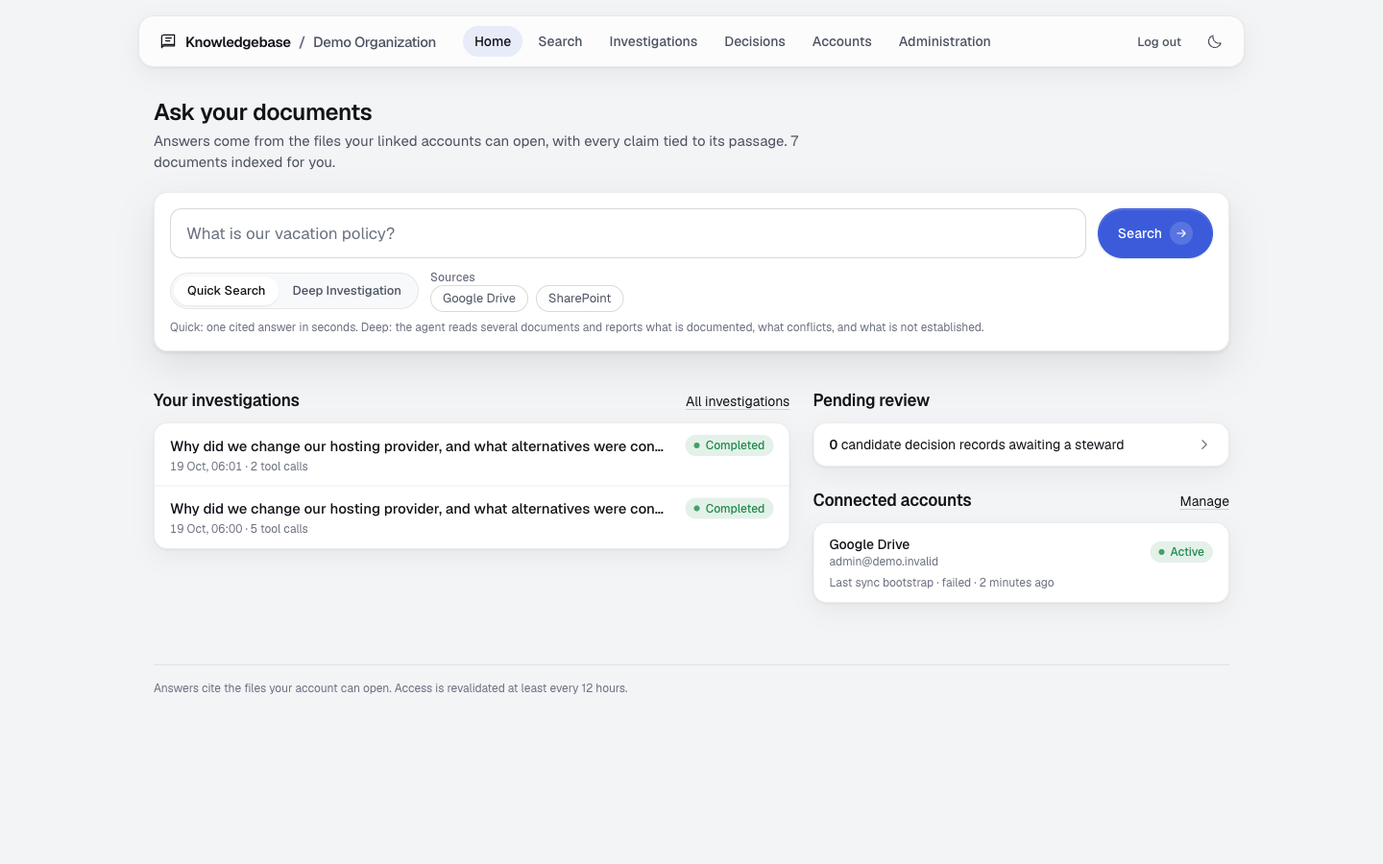
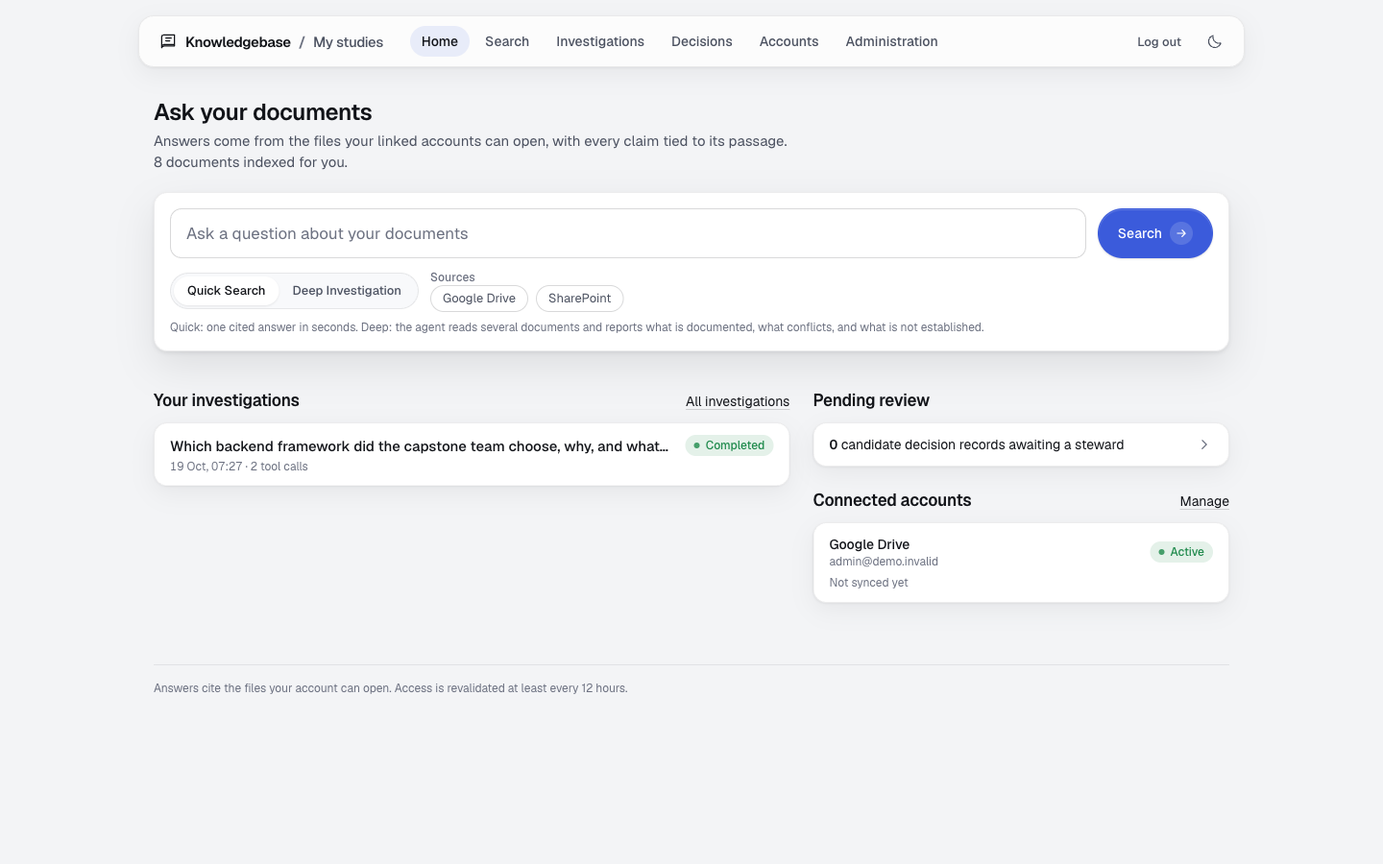
README as a study assistant with a synthetic study corpus; seed_demo --corpus academic; neutral ask placeholders

diff --git a/templates/investigations/list.html b/templates/investigations/list.html
@@ -8,7 +8,7 @@
 <form method="post" action="{% org_url 'web:investigation_start' %}" class="card raised mb-8 flex flex-col gap-3 p-3 sm:flex-row sm:items-center sm:p-4">
   {% csrf_token %}
   <label class="sr-only" for="q">Question</label>
-  <input id="q" class="field field-lg flex-1" type="text" name="q" maxlength="2000" required placeholder="Why did we change our cloud hosting provider?" autocomplete="off">
+  <input id="q" class="field field-lg flex-1" type="text" name="q" maxlength="2000" required placeholder="Why was this decision made, and what alternatives were considered?" autocomplete="off">
   <button class="btn btn-primary h-13 shrink-0 px-5" type="submit">Investigate
     <span class="flex h-6 w-6 items-center justify-center rounded-full bg-white/15"><svg width="14" height="14" viewBox="0 0 24 24" fill="none" stroke="currentColor" stroke-width="1.75" stroke-linecap="round" stroke-linejoin="round" aria-hidden="true"><path d="M5 12h14M13 6l6 6-6 6"/></svg></span>
   </button>

diff --git a/templates/web/search.html b/templates/web/search.html
@@ -6,7 +6,7 @@
 <form method="get" action="{% org_url 'web:search' %}" class="card raised mb-8 p-3 sm:p-4" role="search">
   <label class="sr-only" for="q">Question</label>
   <div class="flex flex-col gap-3 sm:flex-row sm:items-center">
-    <input id="q" class="field field-lg flex-1" type="text" name="q" value="{{ question }}" placeholder="What is our vacation policy?" required autocomplete="off">
+    <input id="q" class="field field-lg flex-1" type="text" name="q" value="{{ question }}" placeholder="Ask a question about your documents" required autocomplete="off">
     <button class="btn btn-primary h-13 shrink-0 px-5" type="submit">Search
       <span class="flex h-6 w-6 items-center justify-center rounded-full bg-white/15"><svg width="14" height="14" viewBox="0 0 24 24" fill="none" stroke="currentColor" stroke-width="1.75" stroke-linecap="round" stroke-linejoin="round" aria-hidden="true"><path d="M5 12h14M13 6l6 6-6 6"/></svg></span>
     </button>

diff --git a/templates/web/dashboard.html b/templates/web/dashboard.html
@@ -8,7 +8,7 @@
   <form method="get" action="{% org_url 'web:search' %}" role="search" class="card raised p-3 sm:p-4">
     <label class="sr-only" for="q">Question</label>
     <div class="flex flex-col gap-3 sm:flex-row sm:items-center">
-      <input id="q" class="field field-lg flex-1" type="text" name="q" placeholder="What is our vacation policy?" required autocomplete="off">
+      <input id="q" class="field field-lg flex-1" type="text" name="q" placeholder="Ask a question about your documents" required autocomplete="off">
       <button class="btn btn-primary h-13 shrink-0 px-5" type="submit">
         Search
         <span class="flex h-6 w-6 items-center justify-center rounded-full bg-white/15"><svg width="14" height="14" viewBox="0 0 24 24" fill="none" stroke="currentColor" stroke-width="1.75" stroke-linecap="round" stroke-linejoin="round" aria-hidden="true"><path d="M5 12h14M13 6l6 6-6 6"/></svg></span>

diff --git a/web/management/commands/seed_demo.py b/web/management/commands/seed_demo.py
@@ -1,6 +1,9 @@
 """`manage.py seed_demo`: a demo organization with an admin, a steward and a
-member, the synthetic corpus linked to the member and the steward through a
-mocked connector, and one candidate decision record. Synthetic data only."""
+member, a synthetic corpus linked to every demo user through a mocked connector,
+and one candidate decision record. Synthetic data only.
+
+`--corpus org` (default) seeds the organizational corpus into /o/demo/;
+`--corpus academic` seeds lecture notes, a slide deck and a report into /o/studies/."""
 
 from datetime import UTC, datetime
 
@@ -20,13 +23,14 @@ class Command(BaseCommand):
 
     def add_arguments(self, parser):
         parser.add_argument("--password", default="demo-passphrase-change-me")
+        parser.add_argument("--corpus", choices=("org", "academic"), default="org")
 
     def handle(self, *args, **options):
         from eval.corpus import documents
 
-        org, _ = Organization.objects.get_or_create(
-            slug="demo", defaults={"name": "Demo Organization"}
-        )
+        academic = options["corpus"] == "academic"
+        slug, name = ("studies", "My studies") if academic else ("demo", "Demo Organization")
+        org, _ = Organization.objects.get_or_create(slug=slug, defaults={"name": name})
         users = {}
         for role, email in (
             (Membership.ROLE_ADMIN, "admin@demo.invalid"),
@@ -44,8 +48,13 @@ class Command(BaseCommand):
                     organization=org, user=user, defaults={"role": role}
                 )
             users[role] = user
-        docs = documents()
-        for user in (users[Membership.ROLE_MEMBER], users[Membership.ROLE_STEWARD]):
+        if academic:
+            from eval.corpus_academic import documents as academic_documents
+
+            docs = academic_documents()
+        else:
+            docs = {sid: (body, "text/markdown", None) for sid, body in documents().items()}
+        for user in users.values():
             link = create_link(
                 org,
                 user,
@@ -61,13 +70,13 @@ class Command(BaseCommand):
             # first scheduled sync marks the link as failed and hides the demo corpus.
             with with_org(org.id, user.pk):
                 SyncScope.objects.filter(id=scope.id).update(enabled=False)
-            for seq, (sid, body) in enumerate(docs.items(), start=1):
+            for seq, (sid, (body, mime, title)) in enumerate(docs.items(), start=1):
                 sd = SourceDocument(
                     source_type="google_drive",
                     source_id=sid,
                     version_label="v1",
-                    title=sid.split(":", 1)[1].replace("-", " ").title(),
-                    mime_type="text/markdown",
+                    title=title or sid.split(":", 1)[1].replace("-", " ").title(),
+                    mime_type=mime,
                     source_url=f"https://docs.google.com/document/d/{sid.split(':', 1)[1]}",
                 )
                 apply_change(
@@ -80,29 +89,32 @@ class Command(BaseCommand):
                         observed_at=datetime.now(UTC),
                         document=sd,
                     ),
-                    lambda _sd, body=body: DownloadResult(
-                        content=body, version_label="v1", mime_type="text/markdown"
+                    lambda _sd, body=body, mime=mime: DownloadResult(
+                        content=body, version_label="v1", mime_type=mime
                     ),
                 )
         steward = Principal(
             user=users[Membership.ROLE_STEWARD], organization=org, role=Membership.ROLE_STEWARD
         )
+        if academic:
+            source_id = "gdrive:software-engineering-capstone-decision-2026-03"
+            title = "Capstone backend framework: Django (March 2026)"
+        else:
+            source_id = "gdrive:hosting-decision"
+            title = "Hosting provider selection (March 2025)"
         with with_org(org.id, steward.user_id):
-            chunk = (
-                Chunk.objects.filter(document__source_id="gdrive:hosting-decision")
-                .order_by("position")
-                .first()
+            chunks = Chunk.objects.filter(document__source_id=source_id).order_by("position")
+            # Prefer the passage under the "Decision" heading; fall back to the first chunk.
+            chunk = next(
+                (c for c in chunks if c.heading_path and c.heading_path[-1] == "Decision"), None
             )
-            exists = DecisionRecord.objects.filter(
-                organization=org, title="Hosting provider selection (March 2025)"
-            ).exists()
+            chunk = chunk or chunks.first()
+            exists = DecisionRecord.objects.filter(organization=org, title=title).exists()
         if chunk and not exists:
             create_candidate(
                 steward,
-                title="Hosting provider selection (March 2025)",
+                title=title,
                 origin=DecisionRecord.ORIGIN_USER,
                 evidence=[EvidenceInput(chunk_id=str(chunk.id), role="decision")],
             )
-        self.stdout.write(
-            "Demo ready: /o/demo/ — admin@demo.invalid, steward@demo.invalid, member@demo.invalid"
-        )
+        self.stdout.write(f"Demo ready: /o/{slug}/ (admin@, steward@ and member@demo.invalid)")

diff --git a/eval/corpus_academic/__init__.py b/eval/corpus_academic/__init__.py
@@ -1,0 +1,70 @@
+# ruff: noqa: E501  data file: long synthetic sentences
+"""Synthetic study corpus for the academic demo: lecture notes, a slide deck and a
+report, generated from text at seed time. No real course material."""
+
+from __future__ import annotations
+
+import io
+from pathlib import Path
+
+ROOT = Path(__file__).parent
+
+DOCX = "application/vnd.openxmlformats-officedocument.wordprocessingml.document"
+PPTX = "application/vnd.openxmlformats-officedocument.presentationml.presentation"
+
+
+def _deck() -> bytes:
+    from pptx import Presentation
+    from pptx.util import Inches
+
+    prs = Presentation()
+    slides = [
+        ("Operating Systems, Lecture 9: Scheduling", "Goals: throughput, turnaround, response time, fairness."),
+        ("First-come first-served", "Simple and fair in arrival order. Suffers the convoy effect: one long CPU burst delays every short job behind it."),
+        ("Shortest job first", "Optimal mean waiting time when burst lengths are known. Burst lengths are predicted with an exponential average; the course uses alpha = 0.5."),
+        ("Round robin", "Time quantum q. A quantum of 10 to 100 ms keeps response time low; a quantum below the context-switch cost wastes the CPU."),
+        ("Multilevel feedback queue", "New jobs start in the highest-priority queue; a job that uses its full quantum moves down. This is the scheduler the lab simulates in Assignment 4."),
+    ]
+    for title, body in slides:
+        slide = prs.slides.add_slide(prs.slide_layouts[1])
+        slide.shapes.title.text = title
+        slide.placeholders[1].text = body
+        slide.placeholders[1].width = Inches(8)
+    out = io.BytesIO()
+    prs.save(out)
+    return out.getvalue()
+
+
+def _report() -> bytes:
+    import docx
+
+    d = docx.Document()
+    d.add_heading("Statistics project report: survey of commute times", 1)
+    d.add_heading("Method", 2)
+    d.add_paragraph(
+        "We collected 212 responses from students in two faculties. Commute time was recorded in minutes. "
+        "We compared the two faculties with Welch's t-test because the variances differed (Levene's test p = 0.01)."
+    )
+    d.add_heading("Result", 2)
+    d.add_paragraph(
+        "Mean commute time was 34.2 minutes in Science and 41.7 minutes in Business. The difference was significant "
+        "(t = 2.91, p = 0.004, 95 percent confidence interval 2.4 to 12.6 minutes)."
+    )
+    d.add_heading("Limitation", 2)
+    d.add_paragraph(
+        "Responses were self-reported and the sample was not random. The instructor's feedback on the draft asked for an effect size, "
+        "which we added as Cohen's d = 0.41."
+    )
+    out = io.BytesIO()
+    d.save(out)
+    return out.getvalue()
+
+
+def documents() -> dict[str, tuple[bytes, str, str]]:
+    """{source_id: (bytes, mime_type, title)} for every synthetic study document."""
+    out = {}
+    for path in sorted(ROOT.glob("*.md")):
+        out[f"gdrive:{path.stem}"] = (path.read_bytes(), "text/markdown", path.stem.replace("-", " ").title())
+    out["gdrive:operating-systems-lecture-09-scheduling"] = (_deck(), PPTX, "Operating Systems Lecture 09 Scheduling.pptx")
+    out["gdrive:statistics-project-report"] = (_report(), DOCX, "Statistics Project Report.docx")
+    return out

diff --git a/README.md b/README.md
@@ -1,6 +1,10 @@
 # Knowledgebase
 
-An organizational intelligence platform. It connects each member's own Google Drive or SharePoint account, indexes what that account can see, and answers questions with citations back to the files. A quick search returns a cited answer in seconds. A deep investigation runs an agent (Hermes) over several documents through read-only tools and reports what is documented, what conflicts, and what is not established. Documented decisions become records that a steward verifies.
+A study assistant that reads your own course material. I collected lecture notes, slide decks, PDFs and project reports from four years of computing science, scattered across Google Drive folders, and wanted one place to ask questions across all of them and get answers that point back to the exact slide or paragraph.
+
+The platform connects a Google Drive (or SharePoint) account, indexes what that account can see, and answers in two modes. **Quick Search** returns a cited answer in seconds. **Deep Investigation** runs an agent (Hermes) over several documents through read-only tools and reports what the material establishes, what conflicts between sources, and what it does not say. Settled conclusions, such as which method a course recommends or what a project team decided, become **records** that are verified and kept with their evidence.
+
+It is built as a multi-user system with permissions, so it also works for a team on shared drives: every member sees only what their own account can open, and every answer is bound to that.
 
 Django 6.1 · PostgreSQL 17 with pgvector · Celery · HTMX · Tailwind v4 · Hermes Agent v0.22.1 (pinned) · MCP.
 
@@ -10,42 +14,46 @@ Django 6.1 · PostgreSQL 17 with pgvector · Celery · HTMX · Tailwind v4 · He
 
 | Function | How it works | Verified |
 |---|---|---|
-| Connect a source | Each member links their own account (OAuth). The sync lists what the account can see, downloads supported formats, parses, chunks, and embeds them. Permissions are per member and revalidated every 12 hours. | Google Drive live on a 3,000-item drive; SharePoint and OneDrive mock-tested (see below) |
-| Quick Search | Hybrid retrieval (vector plus full text) over the member's visible documents, then one model call that writes claims bound to passages. | Live |
-| Deep Investigation | A Hermes agent gets one short-lived token and two read-only tools. It searches, reads, cross-references, and returns statements with evidence ids. Statements whose evidence was not returned to that run are set apart as unsupported. | Live, end to end through the web UI |
-| Decision records | Passages from an answer or an investigation become a candidate record. A steward accepts it as draft, verifies it, or sends it back. A record is visible only to members who can see every passage behind it. | Live |
-| Administration | Document counts, access freshness, sync scopes, the change inbox, and recent runs. | Live |
-| Dark mode, keyboard, phone width | Theme follows the system and can be switched; every control is keyboard operable; pages stack at phone width. | Live |
+| Connect a drive | Link your own account (OAuth). The sync lists what the account can see, downloads Docs, Sheets, Slides, Word, Excel, PowerPoint, PDF, text and Markdown, then parses, chunks and embeds them. Audio, video and archives are recorded as metadata only. Access is revalidated every 12 hours. | Google Drive, live on a personal drive of about 3,000 items; SharePoint and OneDrive mock-tested (see below) |
+| Quick Search | Hybrid retrieval (vector plus full text) over your visible documents, then one model call that writes claims bound to passages. Each claim carries the number of its source; a slide or page number is part of the citation. | Live |
+| Deep Investigation | A Hermes agent gets one short-lived token and read-only tools. It searches, reads, cross-references, and returns statements with evidence ids. Statements whose evidence was not returned to that run are set apart as unsupported, never shown as findings. | Live, end to end through the web UI |
+| Records | Passages from an answer or an investigation become a candidate record. A steward accepts it as draft, verifies it, or sends it back. A record is visible only when every passage behind it is visible to you. | Live |
+| Administration | Document counts, access freshness, sync scopes, the change inbox, recent sync runs. | Live |
+| Dark mode, keyboard, phone width | The theme follows the system and can be switched; every control is keyboard operable; pages stack at phone width. | Live |
 
-All screenshots below were taken from the running app over the synthetic demo corpus (`eval/corpus/`). No real organizational content appears in this repository.
+The screenshots below come from the running app over a synthetic study corpus (`eval/corpus_academic/`: six lecture notes, a generated slide deck, a generated report). No real course material or personal file appears in this repository.
 
 ## Walkthrough
 
-**Log in.** Local accounts; the demo organization ships with an admin, a steward, and a member.
-
-![Login](docs/screenshots/01-login.png)
-
-**Quick Search.** The answer's sentences carry numbered chips. The sources on the right carry the same numbers. Hover or focus a sentence and its source lights up, and back.
-
-![Quick Search](docs/screenshots/03-quick-search.png)
-
-**Deep Investigation.** The agent runs in its own process with a budget of turns, tool calls, characters, and time. The page polls while it runs and can cancel it.
-
-![Investigation running](docs/screenshots/05-investigation-running.png)
-
-The result is built from validated statements only. Each one cites the passage it rests on; conflicts and open questions get their own sections.
-
-![Evidence linking](docs/screenshots/07-evidence-linking.png)
-
-**Decision records.** Save the passages behind an answer as a candidate. A steward verifies it. The timeline shows which stages the evidence establishes and which it does not.
-
-![Decision record](docs/screenshots/09-decision-verified.png)
-
-**Investigations, decisions, accounts, administration.**
+**Organizations and login.** Local accounts. A user can belong to several organizations; mine are "My studies" and a demo team.
 
 | | |
 |---|---|
-| ![Investigations](docs/screenshots/04-investigations.png) | ![Decisions](docs/screenshots/08-decisions.png) |
+| ![Login](docs/screenshots/01-login.png) | ![Organizations](docs/screenshots/00-organizations.png) |
+
+**Quick Search.** The answer's sentences carry numbered chips, the sources carry the same numbers, and a slide deck cites the slide. Hover or focus a sentence and its source lights up, and back.
+
+![Quick Search](docs/screenshots/03-quick-search.png)
+
+**Deep Investigation.** The agent runs in its own process with a budget of turns, tool calls, characters and time. The page polls while it runs and can cancel it.
+
+![Investigation running](docs/screenshots/05-investigation-running.png)
+
+The result is built from validated statements only. Each one cites the passage it rests on. A statement the agent could not back with a returned passage is set apart at the bottom and labeled.
+
+![Evidence linking](docs/screenshots/07-evidence-linking.png)
+
+**Records.** A capstone decision from a project report, saved as a candidate, then verified. The timeline shows which stages the evidence establishes and which it does not.
+
+| | |
+|---|---|
+| ![Candidate record](docs/screenshots/09-decision-candidate.png) | ![Verified record](docs/screenshots/09-decision-verified.png) |
+
+**Investigations, records, accounts, administration.**
+
+| | |
+|---|---|
+| ![Investigations](docs/screenshots/04-investigations.png) | ![Records](docs/screenshots/08-decisions.png) |
 | ![Accounts](docs/screenshots/10-accounts.png) | ![Administration](docs/screenshots/11-administration.png) |
 
 **Dark mode and phone width.**
@@ -58,13 +66,13 @@ The result is built from validated statements only. Each one cites the passage i
 
 Deep Investigation runs each question as one Hermes process with a generated configuration: one MCP server (this platform's knowledge server), a bearer token that lives only in that process, every other toolset disabled, memory off. The runner attests this configuration at startup by running a benign and an adversarial prompt against a self-check MCP server and refusing to serve if any non-knowledge tool is called.
 
-Hermes also ships a web dashboard. It is not part of the deployment, but it is useful to watch the agent work with the same configuration. The MCP page shows the knowledge server registered with bearer auth, and the chat shows the tool calls the agent makes.
+Hermes ships a web dashboard. It is not part of the deployment, but it shows the agent at work with the same configuration: the MCP page lists the knowledge server with bearer auth, and the chat shows the tool calls.
 
 | | |
 |---|---|
 | ![Hermes MCP page](docs/screenshots/hermes-mcp.png) | ![Hermes chat with knowledge tool calls](docs/screenshots/hermes-chat.png) |
 
-In the chat on the right the agent called `trace_decision` and `search_knowledge`, found nothing about a hosting decision in that account's drive, and said so instead of inventing an answer. The six tools it lists are the only ones it has.
+In the chat on the right the agent called `trace_decision` and `search_knowledge`, found nothing about the question in that account's drive, and said so instead of inventing an answer. The six tools it lists are the only ones it has.
 
 To open the dashboard yourself, start it in the agent container with a password and the generated configuration pointing at the MCP server:
 
@@ -89,7 +97,8 @@ make sync                       # uv sync (Python 3.14)
 make up                         # postgres (127.0.0.1:5435) + redis (127.0.0.1:6381)
 make migrate                    # as kb_migrator
 make tailwind-build
-make seed-demo                  # demo organization with synthetic documents
+make seed-demo                  # demo team with synthetic documents at /o/demo/
+python manage.py seed_demo --corpus academic   # study corpus at /o/studies/
 make run                        # web server; demo users: admin@/steward@/member@demo.invalid
 make test                       # pytest on the compose Postgres
 make eval                       # eval/results/<date>.md
@@ -105,7 +114,7 @@ Runtime processes use `DATABASE_URL` with the `kb_app` role; migrations and test
 
 **SharePoint and OneDrive.** Register an app in Entra with platform Web, redirect URI `http://localhost:8010/connectors/microsoft/callback/`, delegated Microsoft Graph permissions `Files.Read.All` and, for work or school accounts, `Sites.Read.All`. Put `MICROSOFT_CLIENT_ID`, `MICROSOFT_CLIENT_SECRET`, and `MICROSOFT_TENANT` (`organizations`, `consumers`, or `common`) in `.env`. With `consumers` or `common` the app asks only for `Files.Read.All`, because a personal account has no SharePoint permission.
 
-A work or school tenant can block user consent for third-party apps. In that case the consent page shows an "approval required" message, and an administrator of that tenant must grant the app in Entra before anyone can link. This blocked the live SharePoint test for this project, so the Graph connector remains verified against mocked API responses only (`connectors/tests/`).
+A work or school tenant can block user consent for third-party apps. In that case the consent page shows an "approval required" message, and an administrator of that tenant must grant the app in Entra before anyone can link. My university tenant does this, so the Graph connector remains verified against mocked API responses only (`connectors/tests/`).
 
 Each member links their own account; the platform indexes what that account can see, and other members see a document only when their own account can see it.
 

diff --git a/PRODUCT.md b/PRODUCT.md
@@ -7,7 +7,7 @@
 web
 
 ## Users
-Members of a small team (5 to 50 people) whose working documents live in Google Drive or SharePoint. They ask a question in the middle of a task: a policy figure, where a checklist lives, why a decision was made, what was tried before. A steward (an experienced member) reviews candidate decision records and verifies them. An administrator links accounts and watches sync health. Confirmed by the owner on 2026-10-17; no other audience is confirmed.
+First user: the owner, a computing science graduate, over four years of course material (lecture notes, slide decks, PDFs, project reports) spread across Google Drive folders, asking questions mid-study and keeping settled conclusions. The same system serves members of a small team (5 to 50 people) whose working documents live in Google Drive or SharePoint. They ask a question in the middle of a task: a policy figure, where a checklist lives, why a decision was made, what was tried before. A steward (an experienced member) reviews candidate decision records and verifies them. An administrator links accounts and watches sync health. Confirmed by the owner on 2026-10-17; no other audience is confirmed.
 
 ## Product Purpose
 Knowledgebase connects each member's own drive accounts, indexes what that member is allowed to see, and answers questions with citations back to the files. Quick Search answers a factual question in seconds. Deep Investigation runs a multi-step agent over several documents and reports what is documented, what conflicts, and what is not established. Decision records capture documented decisions with their alternatives and rationale, verified by a steward, so the context does not leave with the people. Success: a member gets a cited answer without asking around, and a newcomer finds the decision, the alternatives, and the reason in one place.

diff --git a/eval/corpus_academic/software-engineering-capstone-decision-2026-03.md b/eval/corpus_academic/software-engineering-capstone-decision-2026-03.md
@@ -1,0 +1,16 @@
+# Capstone project: framework decision (March 2026)
+
+## Problem
+The capstone team needed a backend framework for the emergency plan editor. The first prototype in Flask had grown three different ways to validate input and no migrations, and the supervisor asked for a decision before the April milestone.
+
+## Options
+The team compared Flask with SQLAlchemy and Alembic, Django with the Django REST Framework, and FastAPI with SQLModel. FastAPI was the fastest to prototype. Django brought migrations, an admin site, and an authentication system the team would otherwise write.
+
+## Decision
+On 2026-03-12 the team selected Django with the Django REST Framework. The deciding factors were built-in migrations, the admin site for the client's reviewers, and the supervisor's familiarity with the framework.
+
+## Rationale
+The team estimated two weeks saved on authentication and admin screens. FastAPI's speed advantage did not matter at the expected load of forty concurrent users.
+
+## Change
+On 2026-04-20 the team moved the background jobs from Django's synchronous views to Celery with Redis after the PDF export blocked requests for up to twenty seconds. The framework decision itself did not change.

diff --git a/eval/corpus_academic/databases-week-04-normalization.md b/eval/corpus_academic/databases-week-04-normalization.md
@@ -1,0 +1,10 @@
+# Databases, Week 4: Normalization
+
+## Normal forms
+A relation is in first normal form when every attribute holds atomic values. Second normal form removes partial dependencies on a composite key. Third normal form removes transitive dependencies: every non-key attribute depends on the key, the whole key, and nothing but the key. Boyce-Codd normal form requires every determinant to be a candidate key.
+
+## Decomposition
+A lossless-join decomposition preserves the original relation when the shared attributes form a key of at least one part. Dependency preservation is not guaranteed by BCNF decomposition; the lecture example splits a schedule table into three relations and loses one functional dependency, which the instructor accepts for the course project.
+
+## Course project
+The term project must reach third normal form. BCNF is recommended but not required, and the instructor stated on 2026-02-10 that a documented exception for one dependency-preserving 3NF table is acceptable.

diff --git a/eval/corpus_academic/networks-lecture-05-tcp-congestion.md b/eval/corpus_academic/networks-lecture-05-tcp-congestion.md
@@ -1,0 +1,10 @@
+# Computer Networks, Lecture 5: TCP congestion control
+
+## Slow start and congestion avoidance
+TCP starts with a congestion window of one segment and doubles it every round-trip time during slow start until it reaches the slow-start threshold. In congestion avoidance the window grows by one segment per round-trip time. A timeout resets the window to one segment; three duplicate acknowledgements halve it (fast recovery).
+
+## CUBIC and BBR
+Linux uses CUBIC by default, which grows the window as a cubic function of time since the last loss. BBR estimates bottleneck bandwidth and round-trip time instead of reacting to loss. The lecture notes that BBR version 1 can starve CUBIC flows on shared links, which is why the lab uses CUBIC on every host.
+
+## Lab 2
+Lab 2 measures throughput under 1 percent loss with CUBIC and with Reno. The expected result is that CUBIC recovers faster after loss; the report must include the congestion window plot captured with ss -ti.

diff --git a/eval/corpus_academic/algorithms-lecture-11-dynamic-programming.md b/eval/corpus_academic/algorithms-lecture-11-dynamic-programming.md
@@ -1,0 +1,10 @@
+# Algorithms, Lecture 11: Dynamic programming
+
+## Principle
+A problem has optimal substructure when an optimal solution contains optimal solutions to subproblems, and overlapping subproblems when the same subproblem recurs. Dynamic programming stores each subproblem's answer once.
+
+## Longest common subsequence
+LCS of two strings of lengths m and n fills an (m + 1) by (n + 1) table in O(m n) time and O(m n) space; space drops to O(min(m, n)) when only the length is required. The assignment in week 12 asks for the reconstruction of one LCS, which needs the full table or Hirschberg's divide-and-conquer.
+
+## Change of recommendation
+In Lecture 6 the course treated memoized recursion as the preferred form. From this lecture on, the bottom-up table is the recommended form for exam answers because it makes the running time explicit. Memoization remains acceptable when the recurrence is stated and the number of distinct states is bounded.

diff --git a/eval/corpus_academic/algorithms-lecture-06-shortest-paths.md b/eval/corpus_academic/algorithms-lecture-06-shortest-paths.md
@@ -1,0 +1,10 @@
+# Algorithms, Lecture 6: Shortest paths
+
+## Dijkstra's algorithm
+Dijkstra's algorithm computes single-source shortest paths when every edge weight is non-negative. With a binary heap it runs in O((V + E) log V) time; with a Fibonacci heap the bound improves to O(E + V log V). The algorithm fails on graphs with negative edge weights because a settled vertex may later receive a shorter path.
+
+## Bellman-Ford
+Bellman-Ford handles negative edge weights and detects negative cycles. It relaxes every edge V - 1 times and runs in O(V E) time. The course recommends Bellman-Ford only when negative weights are present, because Dijkstra is faster on the common case.
+
+## Exam note
+The midterm asks for the correctness argument of Dijkstra (the cut property) and for a counterexample with a negative edge. Students must state the heap-based running time, not the array-based O(V^2) bound, unless the graph is dense.
